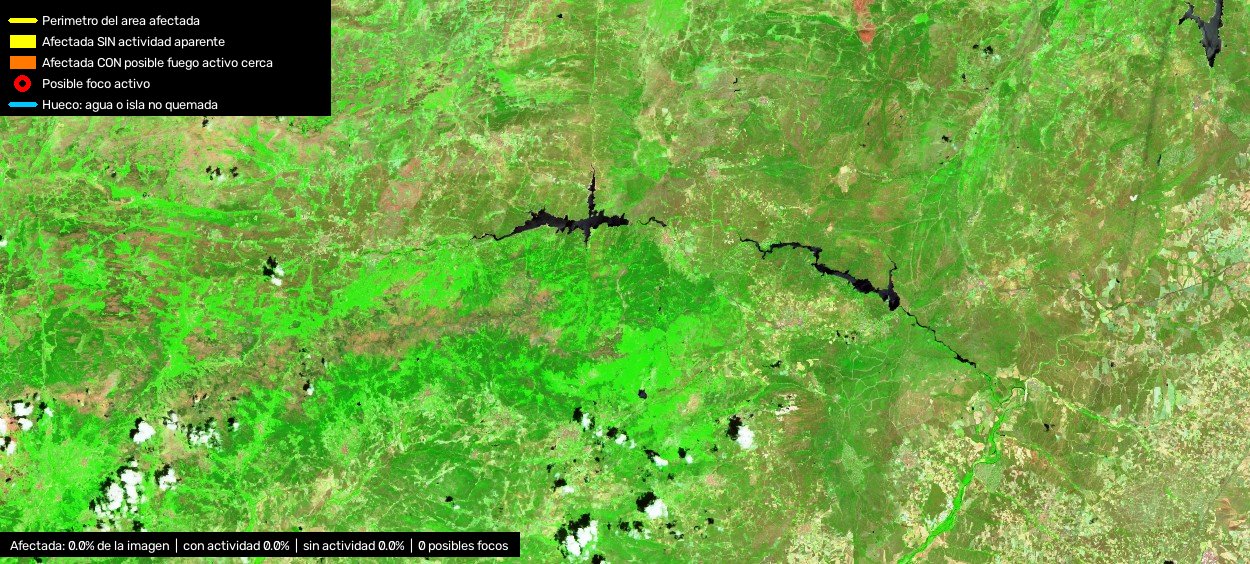
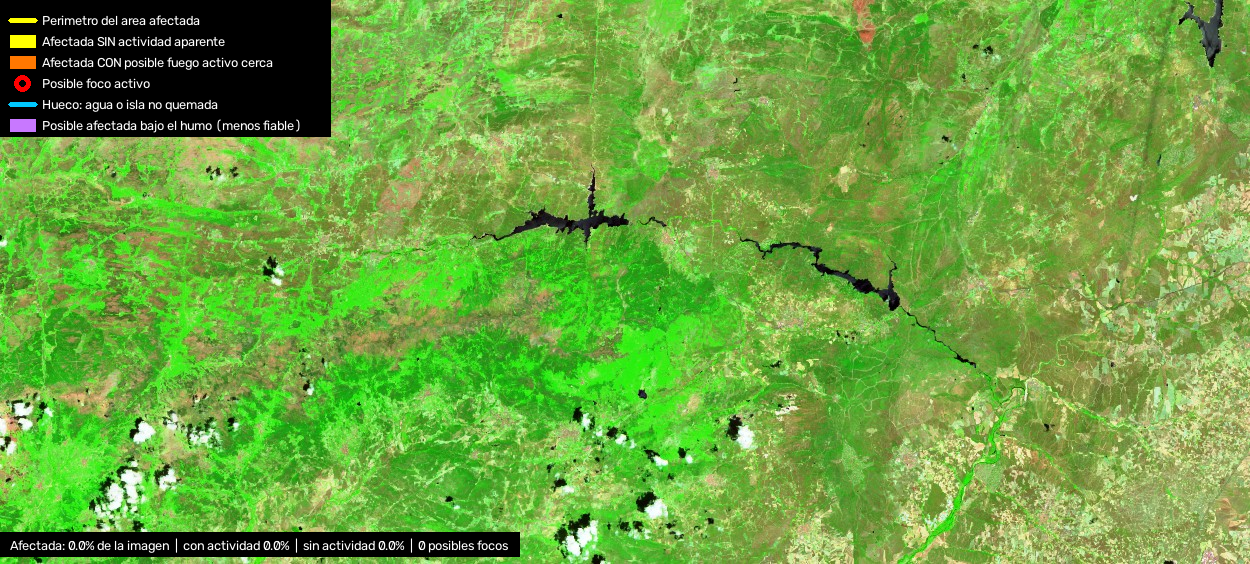
Posible zona quemada bajo el humo como capa aparte y menos fiable
- bajo el humo, corte de Otsu del infrarrojo cercano (B8A) original; solo lo pegado a la cicatriz sin cruzar el frente
- NO se suma a la cicatriz: en Niebla mete bosque sano por delante del frente (mismo color); se dibuja rayada en violeta
- Ávila 0,8 %, Niebla 3,2 %, extra 1,1 %; cicatriz principal sin cambios

Changed region(s): [[0.0, 0.1809, 0.2808, 0.2411]]

diff --git a/run.py b/run.py
@@ -25,6 +25,7 @@ from core.spectral import bands, exclusion_masks, indices
 COL_PERIM = (0, 255, 255)   # amarillo (BGR): perímetro y relleno de lo quemado SIN actividad
 COL_ACTIVE = (0, 120, 255)  # naranja: superficie quemada CON actividad (junto a un foco)
 COL_HOLE = (255, 200, 0)    # azul claro para huecos (embalses, islas)
+COL_SMOKE_BURN = (255, 120, 200)  # violeta: POSIBLE zona quemada bajo el humo (capa aparte, menos fiable)
 COL_FIRE = (0, 0, 255)      # rojo para los focos
 def find_scenes(root: str) -> list[Path]:
     p = Path(root)
@@ -49,7 +50,8 @@ def detect_fires(b: dict, ind: dict, burn: np.ndarray, masks: dict):
 
 
 def draw_overlay(base_rgb: np.ndarray, burn: np.ndarray, fires: np.ndarray, active: np.ndarray,
-                 foci: list | None = None, scale: float = 1.0, footer: str = "") -> np.ndarray:
+                 foci: list | None = None, scale: float = 1.0, footer: str = "",
+                 under_smoke: np.ndarray | None = None) -> np.ndarray:
     im = base_rgb[..., ::-1].copy()
     th = max(2, im.shape[1] // 800)
     tint = im.copy()
@@ -58,6 +60,15 @@ def draw_overlay(base_rgb: np.ndarray, burn: np.ndarray, fires: np.ndarray, acti
     tint[active] = (0.2 * tint[active] + 0.8 * np.array(COL_ACTIVE)).astype(np.uint8)
     tint[fires] = COL_FIRE
     im = cv2.addWeighted(tint, 0.7, im, 0.3, 0)
+    if under_smoke is not None and under_smoke.any():
+        # trama de rayas (no relleno liso) y borde discontinuo: se ve que es otra cosa, menos segura
+        yy, xx = np.mgrid[0:im.shape[0], 0:im.shape[1]]
+        hatch = under_smoke & (((xx + yy) // max(3, th * 2)) % 3 == 0)
+        im[hatch] = (0.25 * im[hatch] + 0.75 * np.array(COL_SMOKE_BURN)).astype(np.uint8)
+        cs, _ = cv2.findContours(under_smoke.astype(np.uint8), cv2.RETR_EXTERNAL, cv2.CHAIN_APPROX_NONE)
+        for c in cs:
+            for j in range(0, len(c), 8):
+                cv2.polylines(im, [c[j:j + 4]], False, COL_SMOKE_BURN, max(1, th - 1))
     cnts, hier = cv2.findContours(burn.astype(np.uint8), cv2.RETR_CCOMP, cv2.CHAIN_APPROX_SIMPLE)
     for i, c in enumerate(cnts):
         cv2.drawContours(im, [c], -1, COL_HOLE if hier[0][i][3] != -1 else COL_PERIM, th)
@@ -78,7 +89,8 @@ def _legend(im: np.ndarray, th: int, footer: str = ""):
              ("fill", COL_PERIM, "Afectada SIN actividad aparente"),
              ("fill", COL_ACTIVE, "Afectada CON posible fuego activo cerca"),
              ("circle", COL_FIRE, "Posible foco activo"),
-             ("line", COL_HOLE, "Hueco: agua o isla no quemada")]
+             ("line", COL_HOLE, "Hueco: agua o isla no quemada"),
+             ("fill", COL_SMOKE_BURN, "Posible afectada bajo el humo (menos fiable)")]
     cv2.rectangle(im, (x0 - 10, y0 - 10), (x0 + int(640 * s), y0 + len(items) * dy), (0, 0, 0), -1)
     for k, (kind, col, txt) in enumerate(items):
         y = y0 + k * dy + dy // 2
@@ -106,6 +118,7 @@ def process(scene_dir: Path, out_root: Path, m_per_px: float | None, variant: st
     masks = exclusion_masks(b, ind)
     det = burn_details(b, ind, masks, variant)
     burn = det["mask"]
+    under = det.get("under_smoke", np.zeros_like(burn))
     fires, fire_warn = detect_fires(b, ind, burn, masks)
     polys = perimeter(burn, sc["scale"])
     foci = []
@@ -122,11 +135,12 @@ def process(scene_dir: Path, out_root: Path, m_per_px: float | None, variant: st
 
     out = out_root / sc["name"]
     (out / "mascaras_descarte").mkdir(parents=True, exist_ok=True)
-    cv2.imwrite(str(out / "perimetro_swir.png"), draw_overlay(sc["swir"], burn, fires, active, foci, sc["scale"], footer))
+    cv2.imwrite(str(out / "perimetro_swir.png"), draw_overlay(sc["swir"], burn, fires, active, foci, sc["scale"], footer, under))
     if sc["tc"] is not None:
-        cv2.imwrite(str(out / "perimetro_tc.png"), draw_overlay(sc["tc"], burn, fires, active, foci, sc["scale"], footer))
+        cv2.imwrite(str(out / "perimetro_tc.png"), draw_overlay(sc["tc"], burn, fires, active, foci, sc["scale"], footer, under))
     cv2.imwrite(str(out / "mascara_quemado.png"), burn.astype(np.uint8) * 255)
     cv2.imwrite(str(out / "mascara_actividad.png"), active.astype(np.uint8) * 255)   # 1 canal, 0/255, resolución de trabajo
+    cv2.imwrite(str(out / "mascara_posible_bajo_humo.png"), under.astype(np.uint8) * 255)
     # Canonical evaluation masks use original image coordinates. Existing
     # masks and overlays retain the working resolution for compatibility.
     height, width = sc["orig_size"]
@@ -160,6 +174,7 @@ def process(scene_dir: Path, out_root: Path, m_per_px: float | None, variant: st
         "perimetro_px_original": round(perim_px, 1),
         "porcentaje_agua": round(100 * masks["water"].sum() / n_valid, 2),
         "porcentaje_humo": round(100 * masks["smoke"].sum() / n_valid, 2),
+        "porcentaje_posible_bajo_humo": round(100 * under.sum() / n_valid, 2),   # aparte: NO incluido en porcentaje_quemado
         "pixeles_focos": int(fires.sum()),
         "num_focos": len(foci),
         "focos_por_ubicacion": {k: sum(f["ubicacion"] == k for f in foci) for k in ("frente de la cicatriz", "junto al humo", "aislado")},

diff --git a/core/segmentation.py b/core/segmentation.py
@@ -32,6 +32,8 @@ COMP_NBR_MAX = -0.15    # (NBR normalizado) una mancha cuenta como quemada solo 
 COMP_NBR_RAW_MAX = -0.05  # (NBR original) B12 CLARAMENTE sobre B8A: cicatrices reales -0,10 a -0,30; nubes/sombras grises ~-0,02
 NBR_FLOOR = 0.0         # v4: el corte del NBR nunca por debajo de 0
 SEED_RED_MIN = 0.0      # las semillas rojizas exigen B12 por encima de B8A y B04, diga lo que diga Otsu
+SMOKE_FRONT_FRAC = 0.006 # grosor de la barrera del frente de fuego (fracción de la diagonal)
+SMOKE_BURN = True       # buscar cicatriz bajo el humo por el infrarrojo cercano (burn_under_smoke)
 GREEN_NBR_RAW = 0.10    # isla verde dentro de la cicatriz: B8A claramente sobre B12 (barrido 0,05/0,10/0,15 en el README)
 GREEN_MIN_FRAC = 1.3e-5 # tamaño mínimo de isla (~50 px en 2500x1546)
 GROW_FRAC = 0.02        # v3: distancia máxima de crecimiento desde lo rojizo (fracción de la diagonal)
@@ -183,7 +185,42 @@ def burn_details(b: dict, ind: dict, masks: dict, variant: str = DEFAULT_VARIANT
     if variant != "v0":
         m, steps["green_islands"] = remove_green_islands(m, ind, masks)
     m &= ~masks["water"] & valid
-    return {"mask": m, "variant": variant, "steps": steps, "discarded": discarded, "thresholds": th}
+    # Capa APARTE y menos fiable: posible cicatriz bajo el humo. No se suma a "mask" (ver burn_under_smoke).
+    under = np.zeros_like(m)
+    if variant != "v0" and SMOKE_BURN:
+        _, under, th["nir_smoke"] = burn_under_smoke(m, b, masks, d)
+        under &= ~m & valid & ~masks["water"]
+    return {"mask": m, "under_smoke": under, "variant": variant, "steps": steps, "discarded": discarded, "thresholds": th}
+
+
+def burn_under_smoke(m: np.ndarray, b: dict, masks: dict, d: float):
+    """POSIBLE cicatriz BAJO EL HUMO (capa aparte, menos fiable). El humo vuelve turquesa la SWIR y borra el tono rojizo,
+    pero el infrarrojo cercano (B8A) lo atraviesa: lo quemado tiene B8A muy bajo y la vegetación sana alto
+    (medido con dNBR en la escena de práctica, bajo el humo: mediana 92 frente a 168).
+    Dentro del humo (sin agua), corte de Otsu de B8A original; solo lo que toca la cicatriz sin cruzar el frente de fuego.
+    Medido en la práctica: sumarlo subiría el IoU de 0,57 a 0,61 y el recall de 0,69 a 0,80, pero en Niebla añadiría
+    ~3 % de la imagen de bosque sano bajo el humo por delante del frente (mismo color). Por eso va aparte."""
+    smoke = masks["smoke"] & b["valid"] & ~masks["water"]
+    zero = np.zeros_like(m)
+    if smoke.sum() < 0.0005 * smoke.size:
+        return m, zero, float("nan")
+    nir = b["_swir"][..., 1].astype(np.float32)
+    t = _otsu(nir[smoke])
+    cand = smoke & (nir < t)
+    cand = cv2.morphologyEx(cand.astype(np.uint8), cv2.MORPH_OPEN, _ellipse(max(3, int(d / 900)))).astype(bool)
+    # El frente de fuego hace de BARRERA: la cicatriz está detrás del frente, nunca delante (allí hay bosque sin
+    # quemar bajo el humo, con el mismo color). Solo se añade lo que conecta con la cicatriz sin cruzar la línea de focos.
+    from core.fire import fire_mask
+    fire = fire_mask(b)
+    barrier = cv2.dilate(fire.astype(np.uint8), _ellipse(max(5, int(SMOKE_FRONT_FRAC * d)) * 2 + 1)).astype(bool) \
+        if fire.any() else np.zeros_like(m)
+    cand &= ~barrier
+    n, lab, _, _ = cv2.connectedComponentsWithStats(cand.astype(np.uint8), 8)
+    touch = np.zeros(n, bool)
+    touch[np.unique(lab[cv2.dilate(m.astype(np.uint8), _ellipse(5)).astype(bool) & cand])] = True
+    touch[0] = False
+    add = touch[lab] & ~m
+    return m | add, add, t
 
 
 def remove_green_islands(m: np.ndarray, ind: dict, masks: dict) -> tuple[np.ndarray, np.ndarray]:

diff --git a/README.md b/README.md
@@ -81,6 +81,7 @@ Tarda **entre 0,2 y 2,6 s por escena** en un portátil.
 4. **Evidencia de quemado:** una mancha solo cuenta si (a) con los valores originales del JPEG SWIR, el canal rojo (B12) supera al verde (B8A) de mediana, y (b) su "NBR" normalizado es < −0,15. Son reglas empíricas sobre los canales de color del JPEG, no una prueba física de quemado. La (a) hizo falta porque el valor normalizado por percentiles pierde el orden entre canales y dejaba pasar una zona de terreno seco como "cicatriz" en una escena de antes del incendio (marcaba un 21 %).
 5. **Prior espacial:** se quedan las manchas grandes y las que están cerca del humo o del fuego **y además pegadas a la mancha principal** (un foco aislado en un campo no arrastra una "cicatriz" a su alrededor). El matorral seco suelto se descarta.
 6. **Huecos:** se rellenan los huecos pequeños (claros de ceniza) y se vuelve a restar el agua, así que los embalses de dentro no cuentan como quemado.
+6c. **Posible zona quemada bajo el humo (capa APARTE, menos fiable):** el humo vuelve turquesa la SWIR y borra el tono rojizo, pero el infrarrojo cercano (B8A) lo atraviesa. Medido con dNBR en la escena de práctica, bajo el humo lo quemado tiene B8A muy bajo (mediana 92) y lo sano alto (168). Dentro del humo se corta por Otsu de B8A y solo se acepta lo que toca la cicatriz sin cruzar el frente de fuego. **No se suma a la cicatriz:** hacerlo subiría el IoU de la práctica de 0,57 a 0,61 (recall de 0,69 a 0,80), pero en Niebla añadiría ~3 % de la imagen de bosque sano bajo el humo, por delante del frente, con el mismo color. Ningún criterio espectral los separa (NBR original 0,22 frente a 0,17), así que se dibuja rayada en violeta y se cuenta aparte (`porcentaje_posible_bajo_humo`, `mascara_posible_bajo_humo.png`).
 6b. **Islas verdes:** se quitan las islas de vegetación sana que el cierre y el relleno habían tapado (con los valores originales, B8A claramente sobre B12: NBR original > +0,10; mínimo ~50 px), salvo bajo el humo denso, donde la SWIR sale turquesa y parecería verde. Se dibujan como huecos. Barrido (umbral +0,05 / +0,10 / +0,15): en la escena de práctica el IoU pasa de 0,56 a 0,58 / 0,57 / 0,57 y la precisión de 0,75 a 0,78 / 0,77 / 0,76, **sin bajar el recall** (0,69). Con las marcas de Jesús, la precisión de Ávila sube de 0,93 a 0,97 y el recall de la extra baja de 0,99 a ~0,97.
 7. **Perímetro:** contornos con huecos (`cv2.findContours`, `RETR_CCOMP`), simplificados.
 
